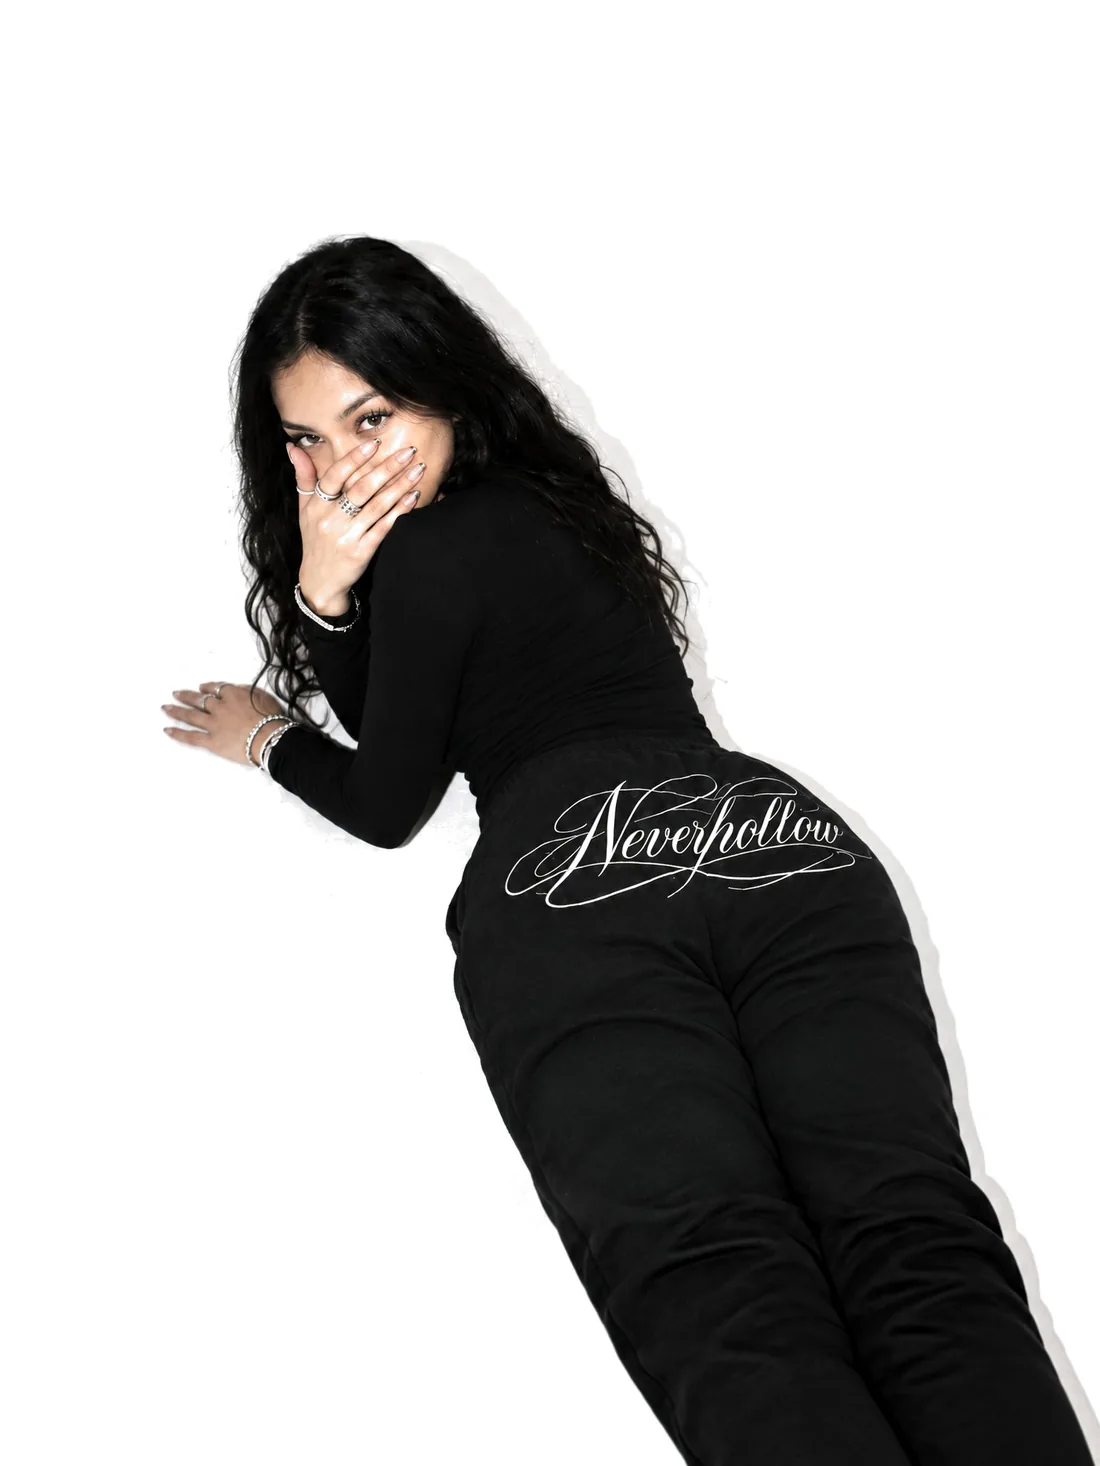
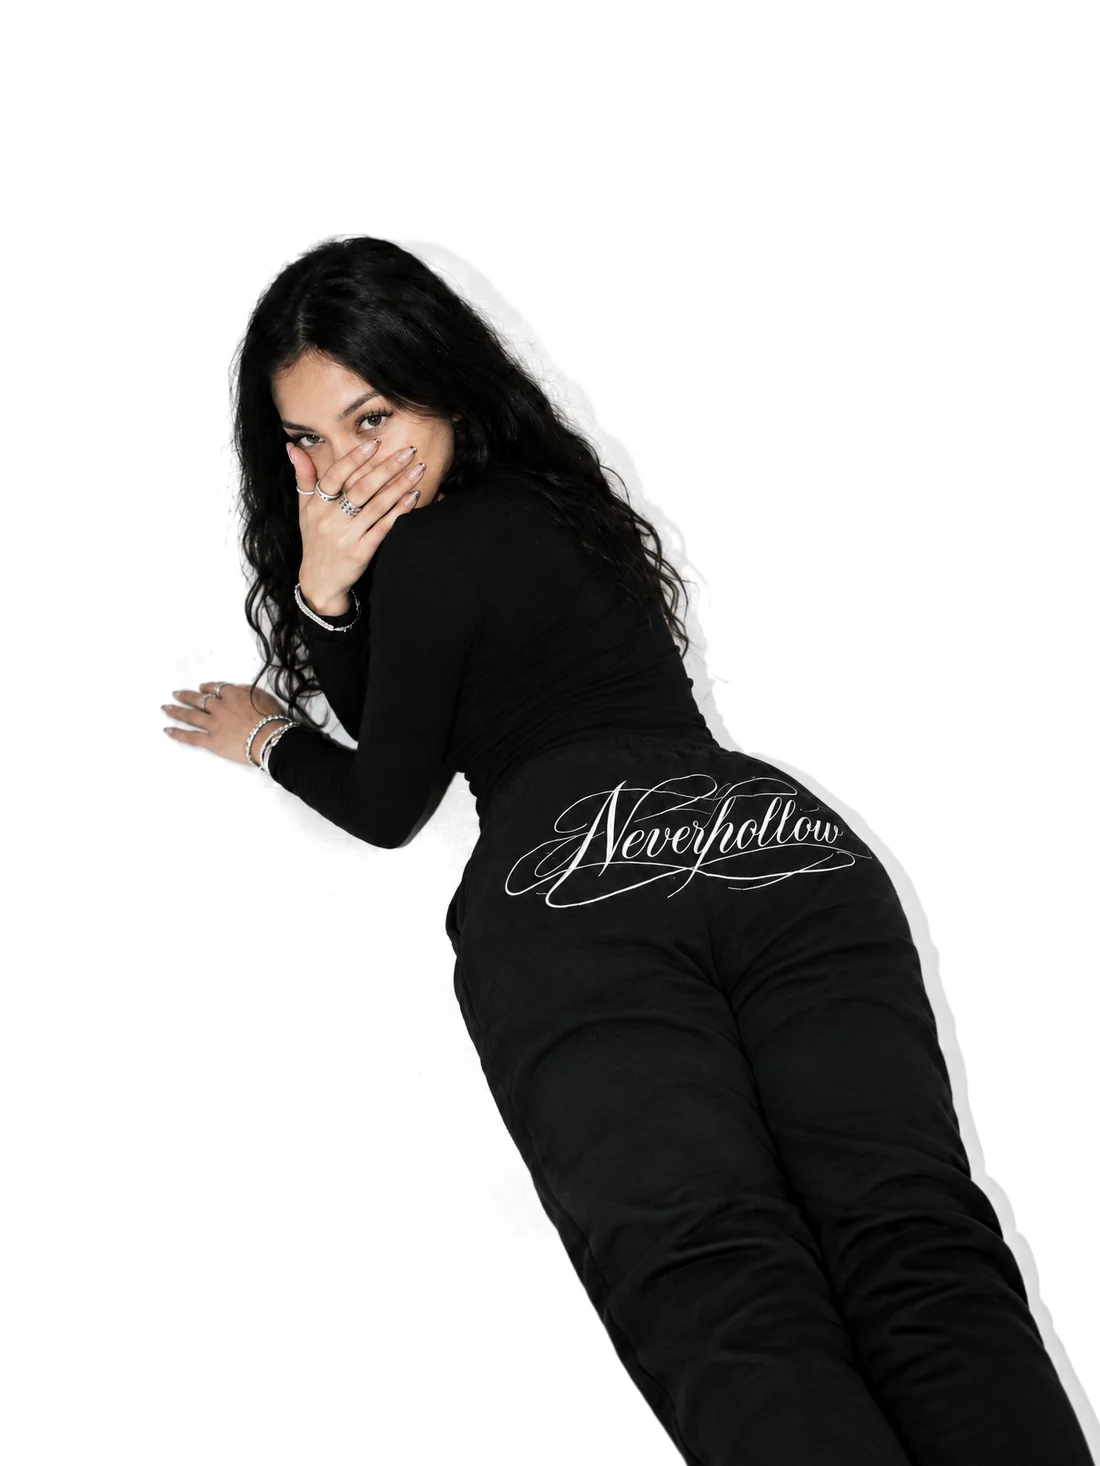
Cover: no fade, no fade-in; Requiem lying photo re-graded so only the backdrop is whitened
Claude-Session: https://claude.ai/code/session_01QScyZqKeqX7ZnCnb2t4eEm

Changed region(s): [[0.2782, 0.2456, 0.4018, 0.4297]]

diff --git a/shopify/theme/assets/base.css b/shopify/theme/assets/base.css
@@ -329,13 +329,11 @@ body.is-scrolled .site-header::after { opacity: 1; }
 body.is-locked { overflow: hidden; }
 
 /* ── Cover: one studio photo on pure white, so it has no edge and simply becomes the page; the words
-   beside it (under it on phones). A photo cut off at the bottom fades out there (a mask, not a white
-   wash, so the photo itself is never lightened). ── */
+   beside it (under it on phones). Nothing is laid over the photo and it never fades: it shows exactly as graded. ── */
 .hero { display: grid; background: var(--white); }
 .hero-photo { position: relative; display: block; aspect-ratio: 3 / 4; overflow: hidden; background: var(--white); }
 .hero-img { position: absolute; inset: 0; width: 100%; height: 100%; object-fit: contain; object-position: 50% 100%; animation: hero-in 1.8s var(--ease-out) both; }
-.hero--fade .hero-img { -webkit-mask-image: linear-gradient(to bottom, #000 80%, transparent 99%); mask-image: linear-gradient(to bottom, #000 80%, transparent 99%); }
-@keyframes hero-in { from { opacity: 0; transform: scale(1.03); } to { opacity: 1; transform: none; } }
+@keyframes hero-in { from { transform: scale(1.03); } to { transform: none; } }
 @keyframes hero-settle { from { transform: scale(1.03); } }
 @media (min-width: 40rem) and (max-width: 63.99rem) { .hero-photo { aspect-ratio: 1 / 1; } }
 .hero-copy { display: grid; justify-items: center; text-align: center; gap: 12px; padding-top: 28px; padding-bottom: 44px; }
@@ -355,7 +353,7 @@ body.is-locked { overflow: hidden; }
 .js .hero-copy > :nth-child(2) { animation-delay: 0.33s; }
 .js .hero-copy > :nth-child(3) { animation-delay: 0.41s; }
 @keyframes rise-in { from { opacity: 0; transform: translateY(10px); } to { opacity: 1; transform: none; } }
-.hero-facts { margin-top: 8px; }
+.hero-facts { margin-top: 0; }
 /* the facts people ask first, on hairlines */
 .facts { display: grid; border-top: 1px solid var(--line); border-bottom: 1px solid var(--line); }
 .fact { display: grid; gap: 6px; padding: 18px 0; align-content: start; }
